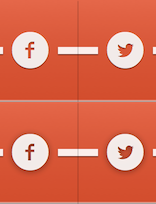
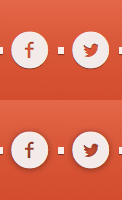
Header: refactor.
* Change assets (@1x + @2x for social).
* Rename classes.
* Fix CSS.
* Add retina for social images.

diff --git a/static/styles/indie.css b/static/styles/indie.css
@@ -66,52 +66,60 @@ a {
   background: url("/static/images/assets/header-background.png") repeat-x;
   background-size: auto 102px; }
 
-.header-banner {
+.header__wrapper {
   position: absolute;
   left: 50%;
   width: 432px;
+  /* 61px * 2 + 310px */
   margin-left: -216px; }
 
-.header-facebook,
-.header-twitter {
-  width: 78px;
-  height: 102px;
+.header__facebook,
+.header__twitter {
+  width: 61px;
+  height: 100px;
   background-repeat: no-repeat;
+  background-image: url("/static/images/assets/header-social@1x.png");
   cursor: pointer; }
 
-.header-facebook {
+.header__facebook {
   float: left;
-  background-image: url("/static/images/assets/header-social@1x.png");
   background-position: 0 0; }
-  .header-facebook:hover {
-    background-position: 0 -102px; }
+  .header__facebook:hover {
+    background-position: 0 -100px; }
 
-.header-twitter {
+.header__twitter {
   float: right;
-  background-image: url("/static/images/assets/header-social@1x.png");
-  background-position: -78px 0; }
-  .header-twitter:hover {
-    background-position: -78px -102px; }
+  background-position: -61px 0; }
+  .header__twitter:hover {
+    background-position: -61px -100px; }
 
-.header-logo {
-  margin-left: 78px;
+/* Retina for the fb/twitter spritesheet. */
+@media only screen and (-webkit-min-device-pixel-ratio: 2), only screen and (min-device-pixel-ratio: 2) {
+  .header__facebook,
+  .header__twitter {
+    /* Reference the @2x Sprite */
+    background-image: url("/static/images/assets/header-social@2x.png");
+    /* Translate the @2x sprite's dimensions back to 1x */
+    background-size: 122px 200px; } }
+.header__banner {
+  margin-left: 61px;
   padding: 25px;
-  width: 276px;
-  height: 154px;
-  background: url("/static/images/assets/header-logo.png") no-repeat;
-  background-size: 276px 154px;
+  width: 310px;
+  height: 156px;
+  background: url("/static/images/assets/header-banner.png") no-repeat;
+  background-size: 310px 156px;
   font-size: 3.3rem;
   text-align: center;
   -webkit-box-sizing: border-box;
   -moz-box-sizing: border-box;
   box-sizing: border-box; }
-  .header-logo a:focus {
+  .header__banner a:focus {
     color: #e25331; }
-  .header-logo a:active {
+  .header__banner a:active {
     color: #e25331; }
 
-.header-background__left,
-.header-background__right {
+.header__background--left,
+.header__background--right {
   position: absolute;
   width: 15px;
   height: 102px;
@@ -119,11 +127,11 @@ a {
   background-repeat: no-repeat;
   top: 0; }
 
-.header-background__left {
+.header__background--left {
   left: 0;
   background-image: url("/static/images/assets/header-background-left.png"); }
 
-.header-background__right {
+.header__background--right {
   right: 0;
   background-image: url("/static/images/assets/header-background-right.png"); }
 

diff --git a/_sources/_header.scss b/_sources/_header.scss
@@ -1,0 +1,113 @@
+@charset "utf-8";
+
+// -------------------------------------------------------
+// Header.
+// -------------------------------------------------------
+
+.page-header {
+  position: relative;
+  width: 100%;
+  height: 102px;
+  background: url("/static/images/assets/header-background.png") repeat-x;
+  background-size: auto 102px;
+}
+
+// -------------------------------------------------------
+// Wrapper + FB +Twitter + Banner.
+// -------------------------------------------------------
+
+.header__wrapper {
+  position: absolute;
+  left: 50%;
+  width: 432px; /* 61px * 2 + 310px */
+  margin-left: -216px;
+}
+
+//
+// Social.
+//
+
+.header__facebook,
+.header__twitter {
+  width: 61px;
+  height: 100px;
+  background-repeat: no-repeat;
+  background-image: url("/static/images/assets/header-social@1x.png");
+  cursor: pointer;
+}
+
+.header__facebook {
+  float: left;
+  background-position: 0 0;
+  &:hover {
+    background-position: 0 -100px;
+  }
+}
+
+.header__twitter {
+  float: right;
+  background-position: -61px 0;
+  &:hover {
+    background-position: -61px -100px;
+  }
+}
+
+/* Retina for the fb/twitter spritesheet. */
+@media only screen and (-webkit-min-device-pixel-ratio: 2), only screen and (min-device-pixel-ratio: 2) {
+  .header__facebook,
+  .header__twitter {
+    /* Reference the @2x Sprite */
+    background-image: url("/static/images/assets/header-social@2x.png");
+    /* Translate the @2x sprite's dimensions back to 1x */
+    background-size: 122px 200px;
+  }
+}
+
+//
+// Banner.
+//
+
+.header__banner {
+  margin-left: 61px;
+  padding: 25px;
+
+  // Size.
+  width: 310px;
+  height: 156px;
+  background: url("/static/images/assets/header-banner.png") no-repeat;
+  background-size: 310px 156px;
+
+  font-size: 3.3rem;
+  text-align: center;
+
+  @include box-sizing(border-box);
+
+  a {
+    &:focus  { color: $brand-color; }
+    &:active { color: $brand-color; }
+  }
+}
+
+// -------------------------------------------------------
+// Backgrounds.
+// -------------------------------------------------------
+
+.header__background--left,
+.header__background--right {
+  position: absolute;
+  width: 15px;
+  height: 102px;
+  background-size: 15px 102px;
+  background-repeat: no-repeat;
+  top: 0;
+}
+
+.header__background--left {
+  left: 0;
+  background-image: url("/static/images/assets/header-background-left.png");
+}
+
+.header__background--right {
+  right: 0;
+  background-image: url("/static/images/assets/header-background-right.png");
+}

diff --git a/_sources/_app.scss b/_sources/_app.scss
@@ -4,94 +4,7 @@
 // Header.
 // -------------------------------------------------------
 
-.page-header {
-  position: relative;
-  width: 100%;
-  height: 102px;
-  background: url("/static/images/assets/header-background.png") repeat-x;
-  background-size: auto 102px;
-}
-
-.header-banner {
-  position: absolute;
-  left: 50%;
-  width: 432px;
-  margin-left: -216px;
-}
-
-.header-facebook,
-.header-twitter {
-  width: 78px;
-  height: 102px;
-
-  background-repeat: no-repeat;
-  // background-size: 78px 102px;
-
-  cursor: pointer;
-}
-
-.header-facebook {
-  float: left;
-  background-image: url("/static/images/assets/header-social@1x.png");
-  background-position: 0 0;
-
-  &:hover {
-    background-position: 0 -102px;
-  }
-}
-
-.header-twitter {
-  float: right;
-  background-image: url("/static/images/assets/header-social@1x.png");
-  background-position: -78px 0;
-
-  &:hover {
-    background-position: -78px -102px;
-  }
-}
-
-.header-logo {
-  margin-left: 78px;
-
-  // Size.
-  padding: 25px;
-  width: 276px;
-  height: 154px;
-  background: url("/static/images/assets/header-logo.png") no-repeat;
-  background-size: 276px 154px;
-
-  font-size: 3.3rem;
-  text-align: center;
-
-  @include box-sizing(border-box);
-
-  a {
-    &:focus  { color: $brand-color; }
-    &:active { color: $brand-color; }
-  }
-}
-
-// Background left/right.
-
-.header-background__left,
-.header-background__right {
-  position: absolute;
-  width: 15px;
-  height: 102px;
-  background-size: 15px 102px;
-  background-repeat: no-repeat;
-  top: 0;
-}
-
-.header-background__left {
-  left: 0;
-  background-image: url("/static/images/assets/header-background-left.png");
-}
-
-.header-background__right {
-  right: 0;
-  background-image: url("/static/images/assets/header-background-right.png");
-}
+@import "header";
 
 // -------------------------------------------------------
 // Wrapper.

diff --git a/_includes/header.html b/_includes/header.html
@@ -1,11 +1,11 @@
 <header class="page-header">
-  <div class="header-background__left"></div>
-  <div class="header-background__right"></div>
+  <div class="header__background--left"></div>
+  <div class="header__background--right"></div>
 
-  <div class="header-banner">
-    <div class="header-facebook"></div>
-    <div class="header-twitter"></div>
-    <div class="header-logo">
+  <div class="header__wrapper">
+    <div class="header__facebook"></div>
+    <div class="header__twitter"></div>
+    <div class="header__banner">
       <a href="/">Indé</a>
     </div>
   </div>
